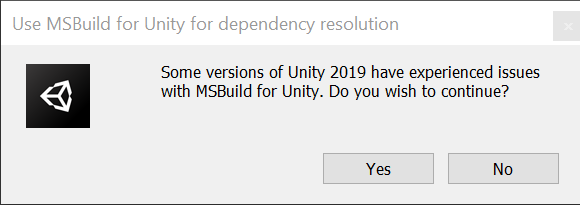
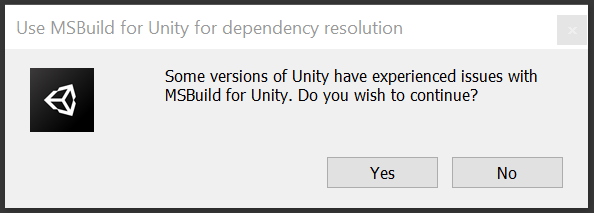
remove precompiler condition, update documentation

Changed region(s): [[0.0, 0.0, 1.0, 0.9951], [0.2793, 0.322, 0.931, 0.4976]]

diff --git a/Assets/MRTK/Core/Utilities/Editor/PackageManifest/PackageManifestUpdater.cs b/Assets/MRTK/Core/Utilities/Editor/PackageManifest/PackageManifestUpdater.cs
@@ -204,15 +204,13 @@ namespace Microsoft.MixedReality.Toolkit.Utilities.Editor
         [MenuItem("Mixed Reality Toolkit/MSBuild/Use MSBuild for Unity dependency resolution", priority = 99)]
         internal static void EnableMSBuildForUnity()
         {
-#if UNITY_2019
             if (!EditorUtility.DisplayDialog(
                 "Use MSBuild for Unity for dependency resolution",
-                "Some versions of Unity 2019 have experienced issues with MSBuild for Unity. Do you wish to continue?",
+                "Some versions of Unity have experienced issues with MSBuild for Unity. Do you wish to continue?",
                 "Yes", "No"))
             {
                 return;
             }
-#endif // UNITY_2019
 
             List<string> manifestFileLines;
             PackageManifest manifest = LoadManifest(out manifestFileLines);

diff --git a/Documentation/ReleaseNotes.md b/Documentation/ReleaseNotes.md
@@ -15,10 +15,7 @@ To prevent the MRTK configuration dialog from repeatedly displaying when `Enable
 
 This change also adds the ability to uninstall / disable using MSBulid or Unity.
 
-If running on Unity 2019, the following confirmation dialog will appear due to issue [7239](https://github.com/microsoft/MixedRealityToolkit-Unity/issues/7239) which may occur on some versions.
-
->[!NOTE]
-> Based on recent testing, it appears that issue [7239](https://github.com/microsoft/MixedRealityToolkit-Unity/issues/7239) has been resolved in recent Unity 2019.3 releases.
+There is a confirmation dialog that will be displayed when selecting `Use MSBuild for Unity dependency resolution`.
 
 ![MSBuild for Unity confirmation](Images/ConfigurationDialog/EnableMSB4UPrompt.png)
 
